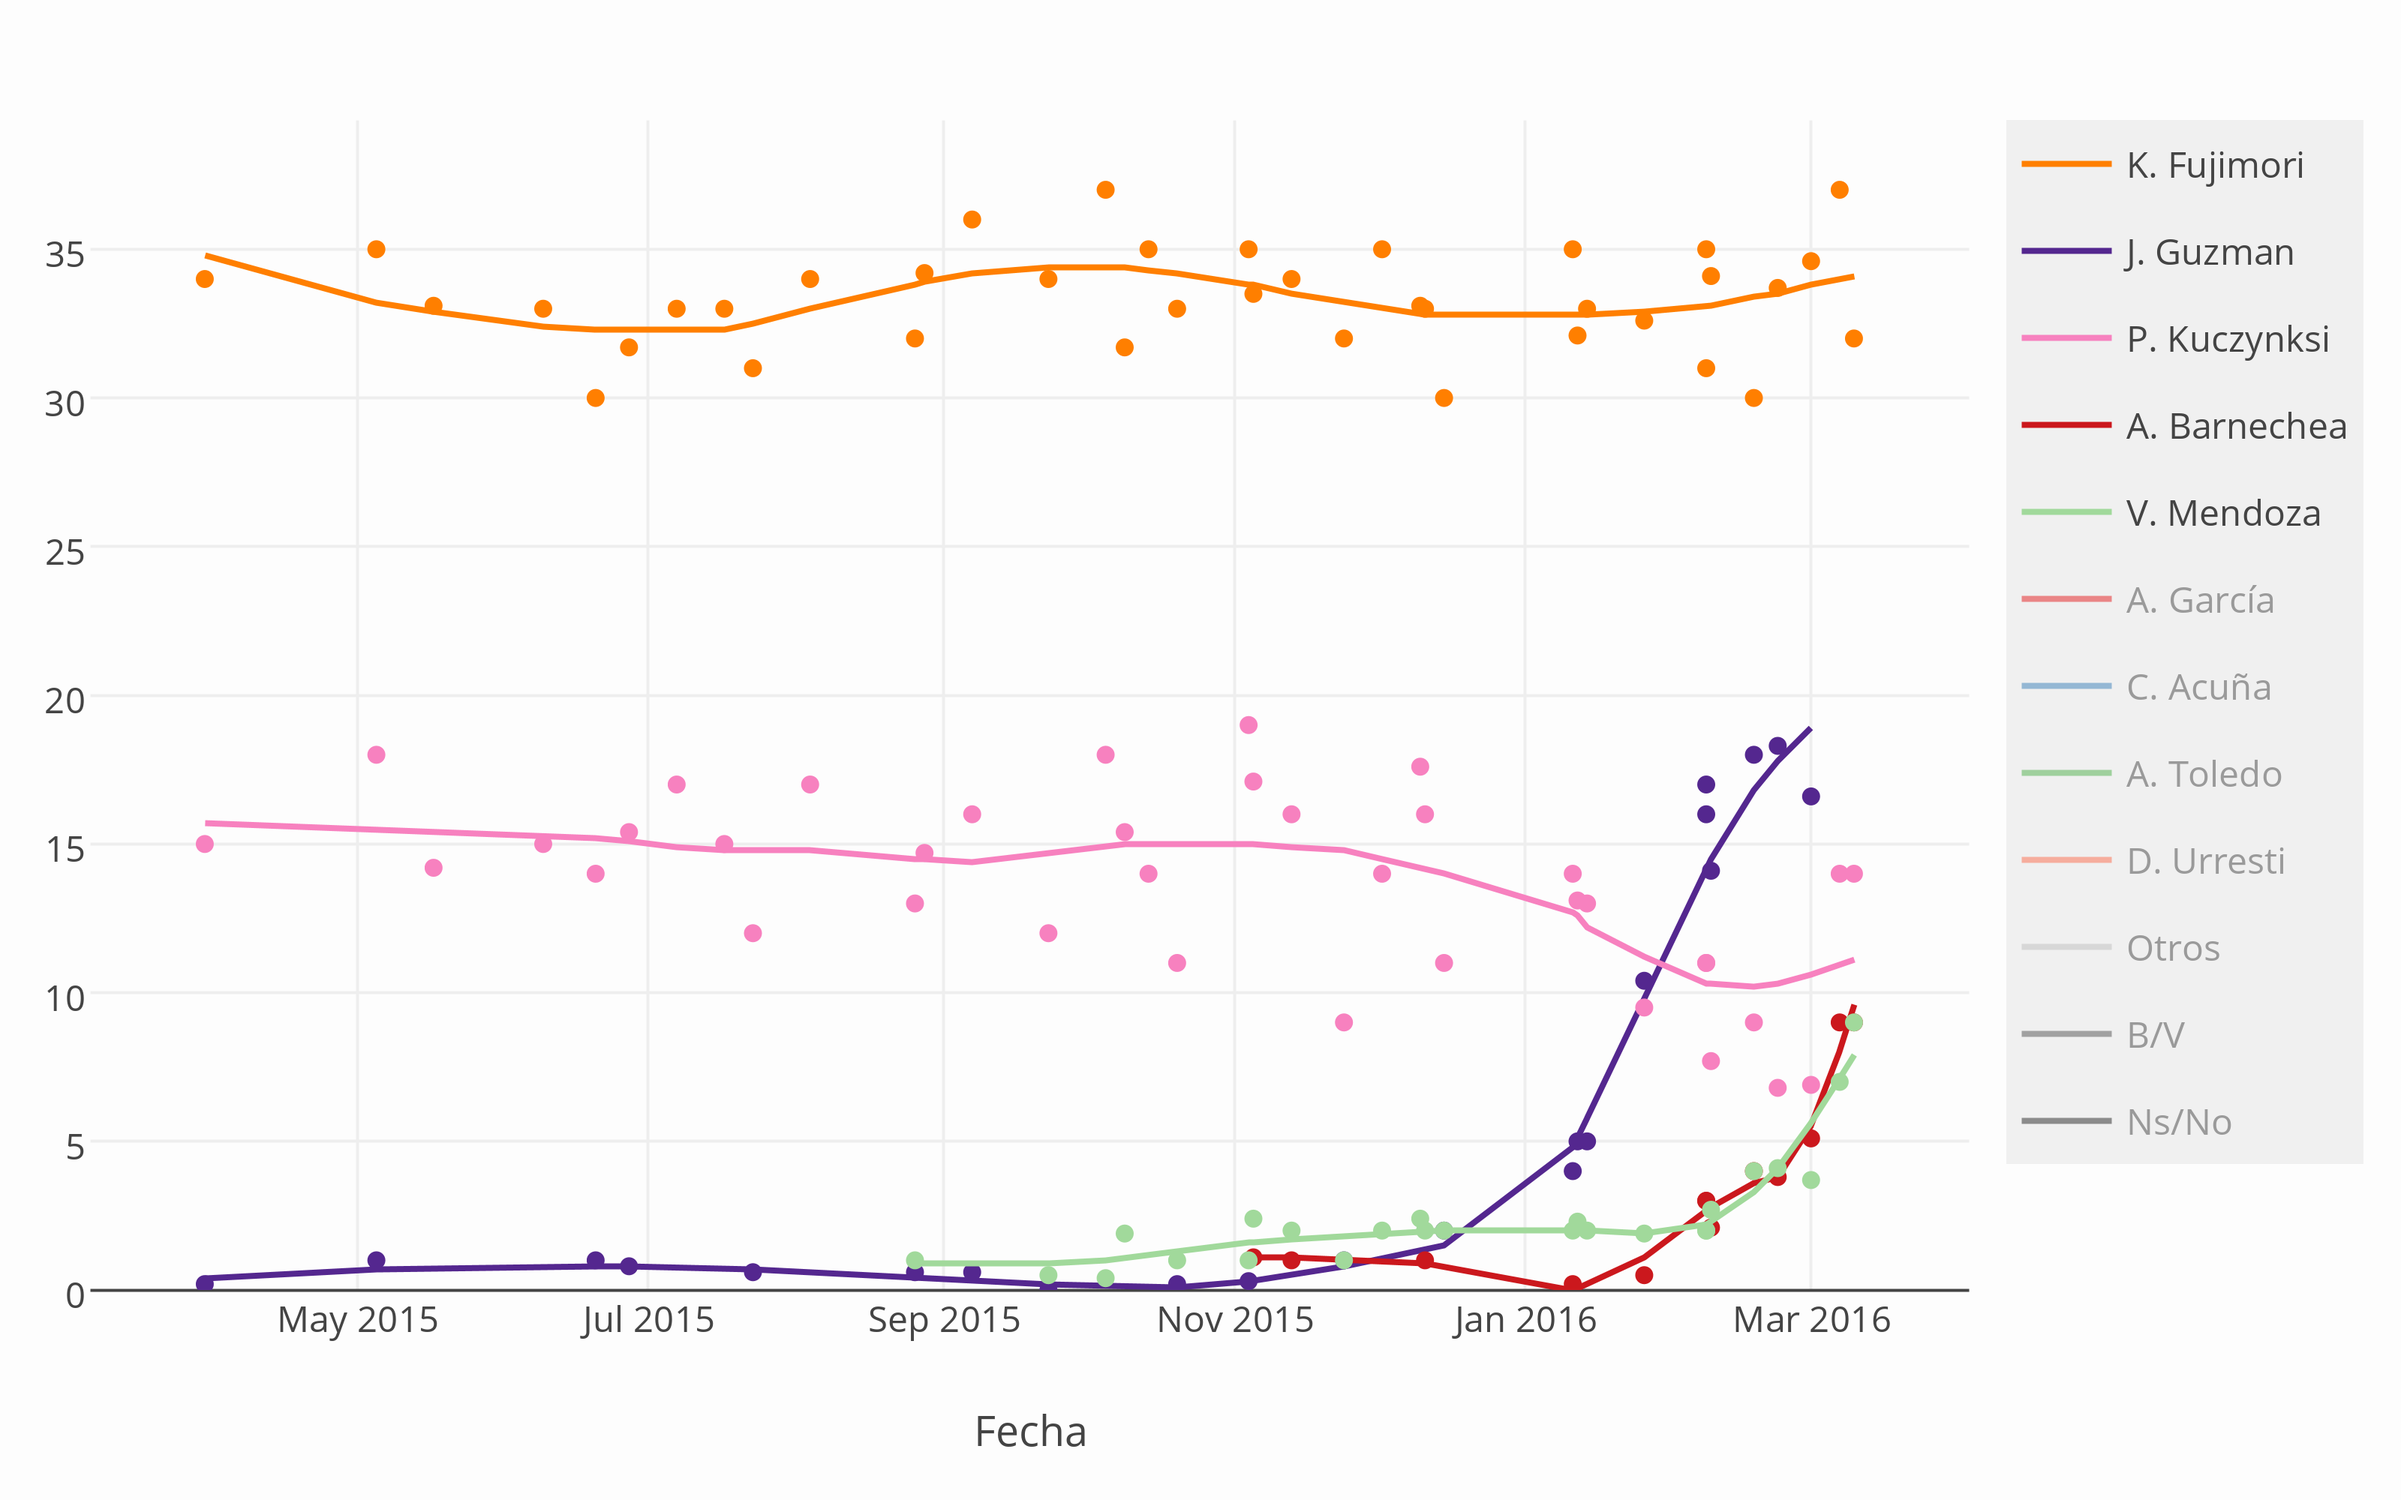
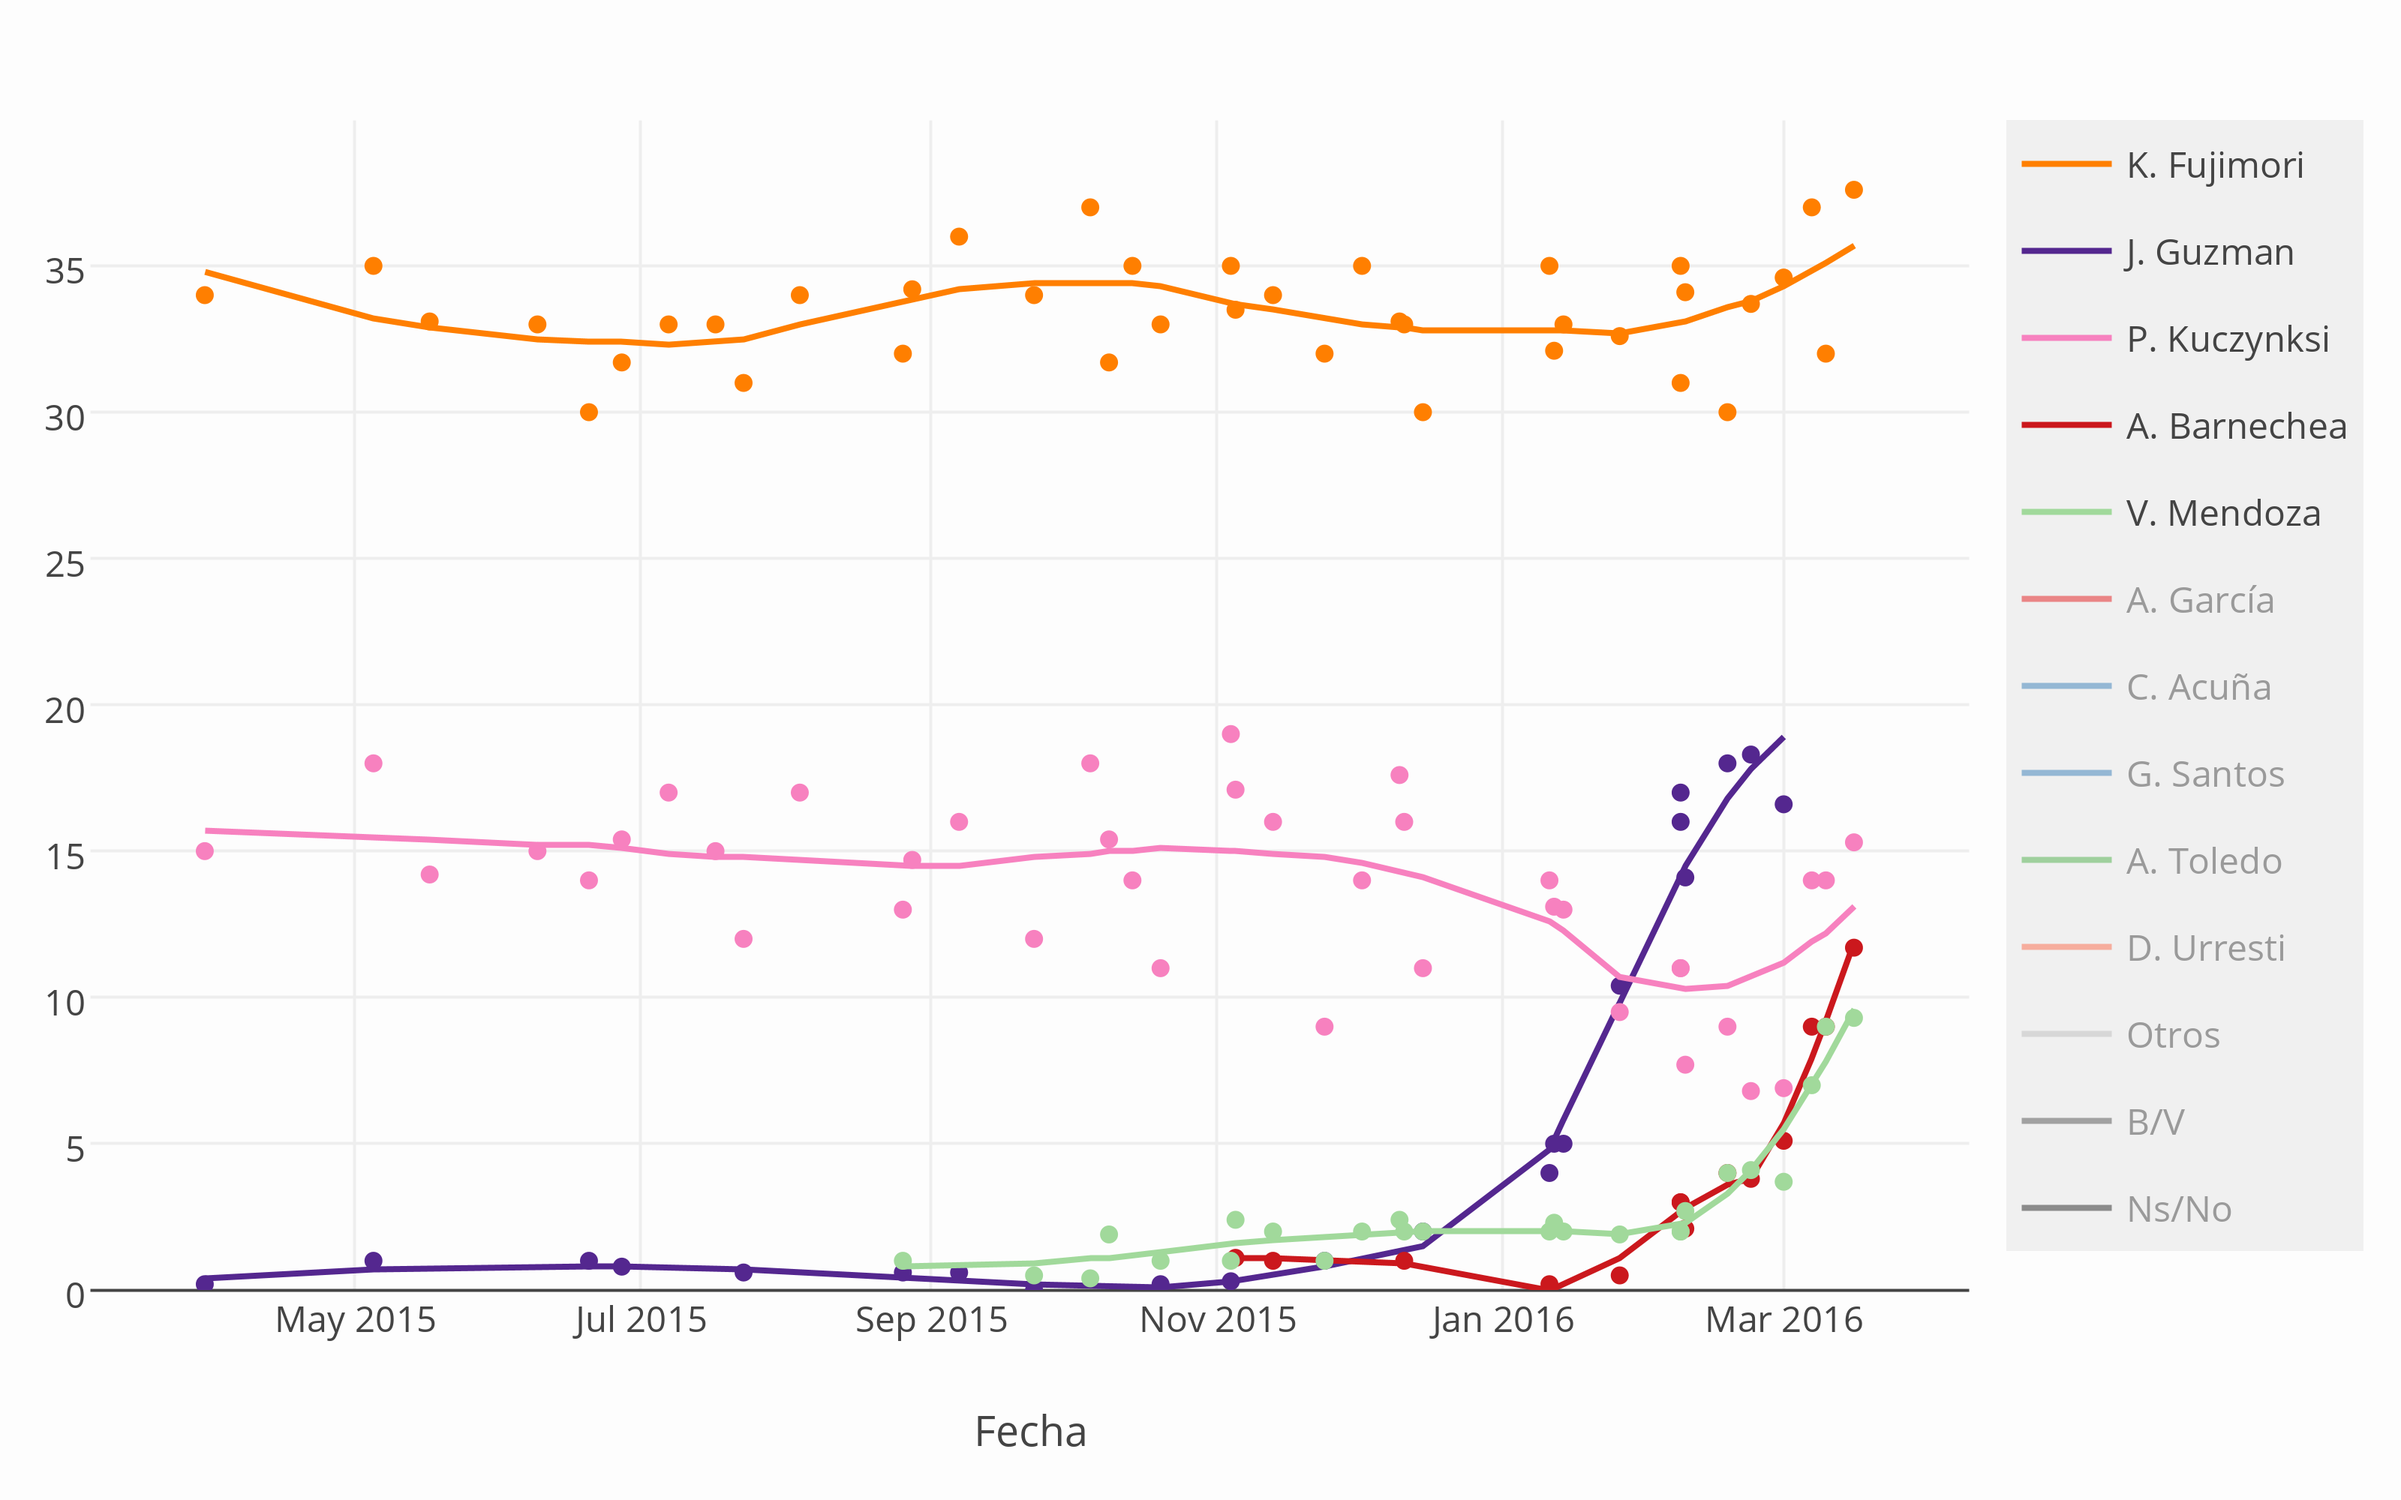
graficoActualizado

diff --git a/_posts/2016-03-19-Elecciones-presidenciales-2016.md b/_posts/2016-03-19-Elecciones-presidenciales-2016.md
@@ -24,7 +24,7 @@ breadcrumb: true
 
 
 
-El siguiente gráfico combina las encuestas de intención de voto. Actualizado el 13-03-2016.
+El siguiente gráfico combina las encuestas de intención de voto. Actualizado el 19-03-2016.
 
 
 
@@ -43,7 +43,7 @@ $('.myIframe').css('height', $(window).height()+'px');
 
 ## Resumen
 
-Estimado de »Resultados.pe« al cierre del trabajo de campo de la encuesta más reciente: 10-03-2016. 
+Estimado de »Resultados.pe« al cierre del trabajo de campo de la encuesta más reciente: 16-03-2016. 
 
 <iframe src="https://plot.ly/~AlejandroKantor/380.embed?link=False"  style="width: 100%" frameBorder="0" height="350" scrolling="no" seamless="seamless" 
 class="myIframe">
